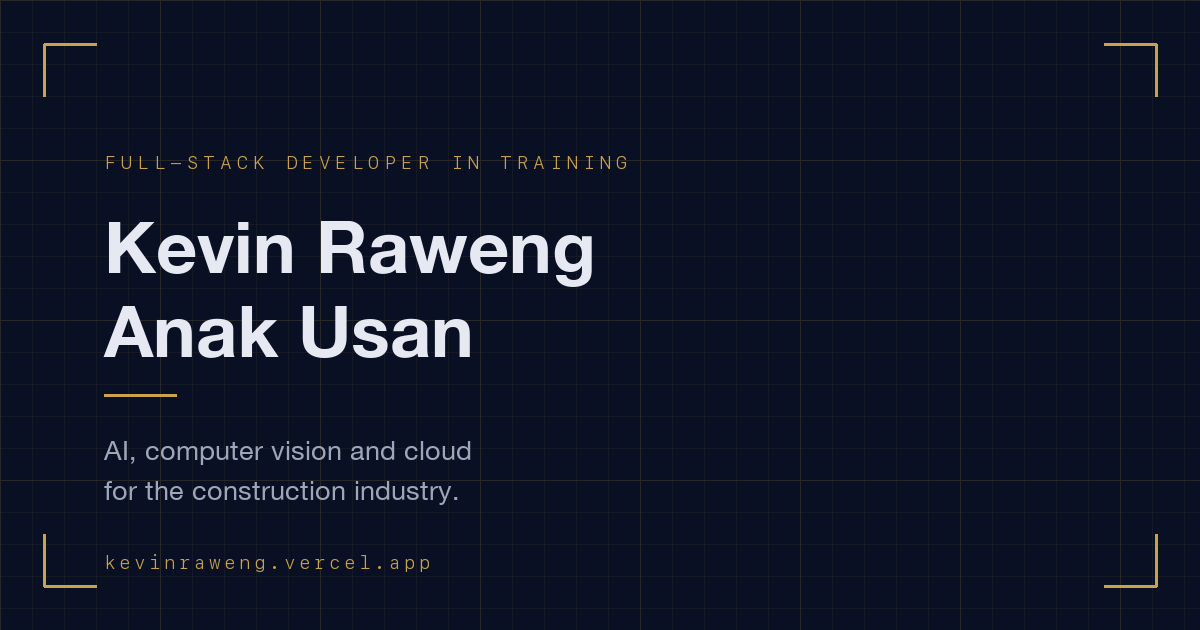
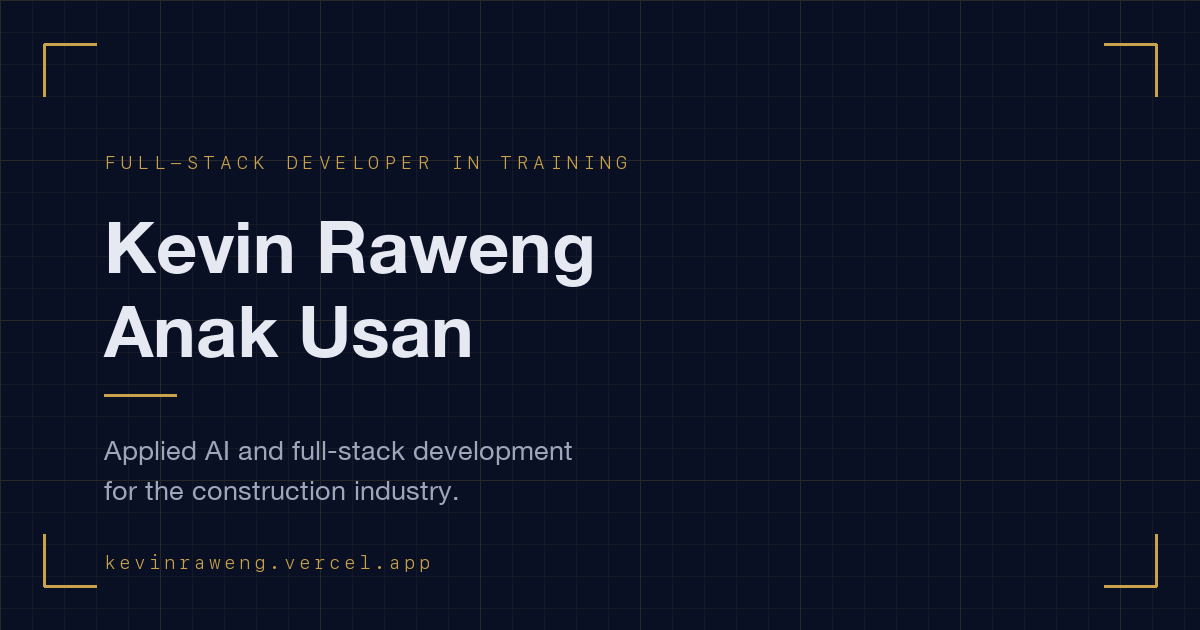
fix: nest computer vision under AI, and title the resume PDF properly
Computer vision is a subfield of AI, so listing them side by side was
wrong. Also sets the PDF and DOCX document titles, which browsers use
as the tab label when a PDF is opened.

Changed region(s): [[0.0925, 0.6937, 0.4933, 0.754]]

diff --git a/index.html b/index.html
@@ -46,7 +46,7 @@
     <meta name="twitter:title" content="Kevin Raweng Anak Usan | Full-Stack Developer in Training" />
     <meta
       name="twitter:description"
-      content="Full-stack developer in training. AI, computer vision and cloud for the construction industry."
+      content="Full-stack developer in training. Applied AI, including computer vision, for the construction industry."
     />
   </head>
   <body>

diff --git a/src/components/Hero.jsx b/src/components/Hero.jsx
@@ -4,7 +4,7 @@ import Reveal from './Reveal'
 // profile photo used to occupy and keeps the corner-bracket motif in the hero.
 const SPEC = [
   ['Location', 'Kuching, Sarawak, Malaysia'],
-  ['Focus', 'Full-stack · AI · Computer Vision'],
+  ['Focus', 'Full-stack · AI (computer vision, agents)'],
   ['Completes', '6 November 2026'],
   ['Open to', 'Junior developer roles'],
 ]
